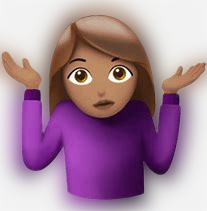
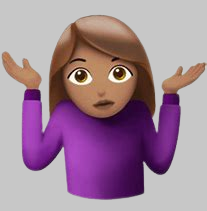
Background-color Changed

diff --git a/personalProfile.css b/personalProfile.css
@@ -1,3 +1,6 @@
+body{
+    background-color: lightgray;
+}
 .content{
     text-align: center;
 }
